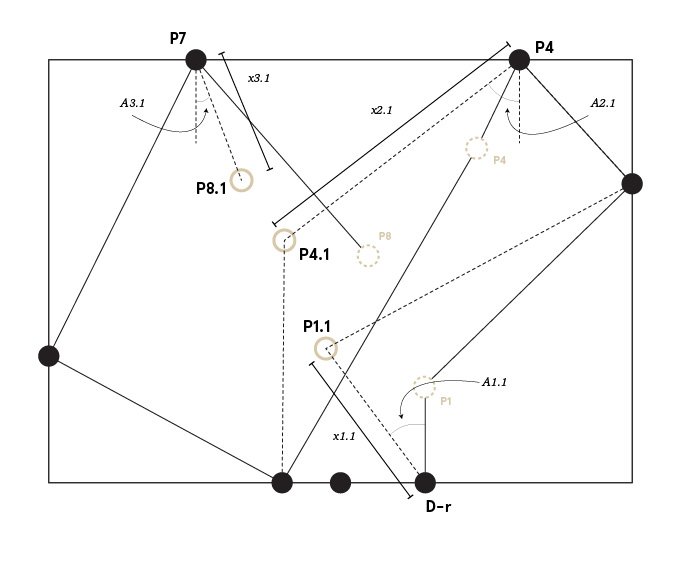
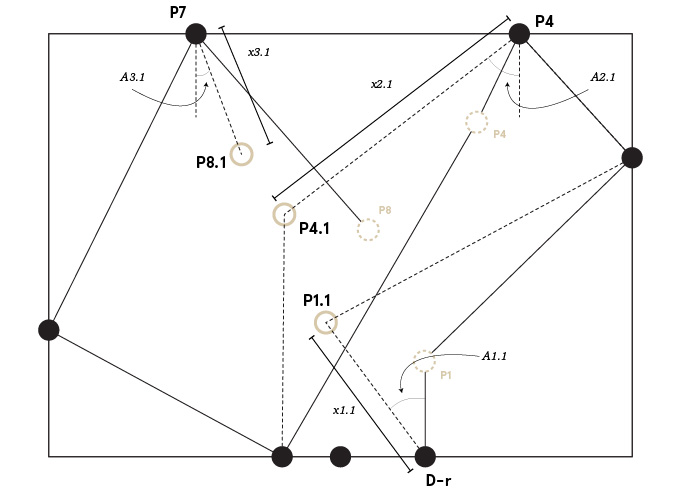
media queries for images

diff --git a/css/mes.css b/css/mes.css
@@ -38,7 +38,7 @@
 	float: left;
 	/* Box-model */
 	width: 69%;
-	margin: 0 0 0 0;
+	margin: 0 0 6% 0;
 	/* Typography */
 	/* Visual */
 	/* Misc */
@@ -62,4 +62,69 @@
 
 .img-label > img {
 	width: 100%;
+}
+
+
+/*  =======================
+    MEDIA QUERIES
+    ======================= */
+
+@media screen and (max-width: 974px) { 
+	.img-diagram {
+		/* Positioning */
+		/* Box-model */
+		width: 90%;
+		margin: 0 5% 0 5%;
+		/* Typography */
+		/* Visual */
+		/* Misc */
+	}
+
+	.img-label {
+		/* Positioning */
+		float: left;
+		/* Box-model */
+		width: 46%;
+		margin: 0 28% 7% 28%;
+		/* Typography */
+		/* Visual */
+		/* Misc */
+
+	}
+
+	.label2 {
+		margin-left: 29%;
+	}
+	
+	.label3 {
+		margin-left: 33%;
+	}
+}
+
+@media screen and (max-width: 649px) { 
+	
+
+}
+
+@media screen and (max-width: 500px) { 
+
+	.img-label {
+		/* Positioning */
+		/* Box-model */
+		width: 80%;
+		margin: 0 10% 7% 10%;
+		/* Typography */
+		/* Visual */
+		/* Misc */
+
+	}
+
+	.label2 {
+		margin-left: 17%;
+	}
+	
+	.label3 {
+		margin-left: 16%;
+	}
+
 }

diff --git a/mes.html b/mes.html
@@ -37,7 +37,7 @@
 				<img src="img/mes/diagram/diagram2.jpg" alt="diagram 1">
 			</div>
 
-			<div class="img-label">
+			<div class="img-label label2">
 				<img src="img/mes/diagram/label2.jpg" alt="label 2">
 			</div>
 
@@ -45,7 +45,7 @@
 				<img src="img/mes/diagram/diagram3.jpg" alt="diagram 3">
 			</div>
 
-			<div class="img-label">
+			<div class="img-label label3">
 				<img src="img/mes/diagram/label3.jpg" alt="label 3">
 			</div>
 
